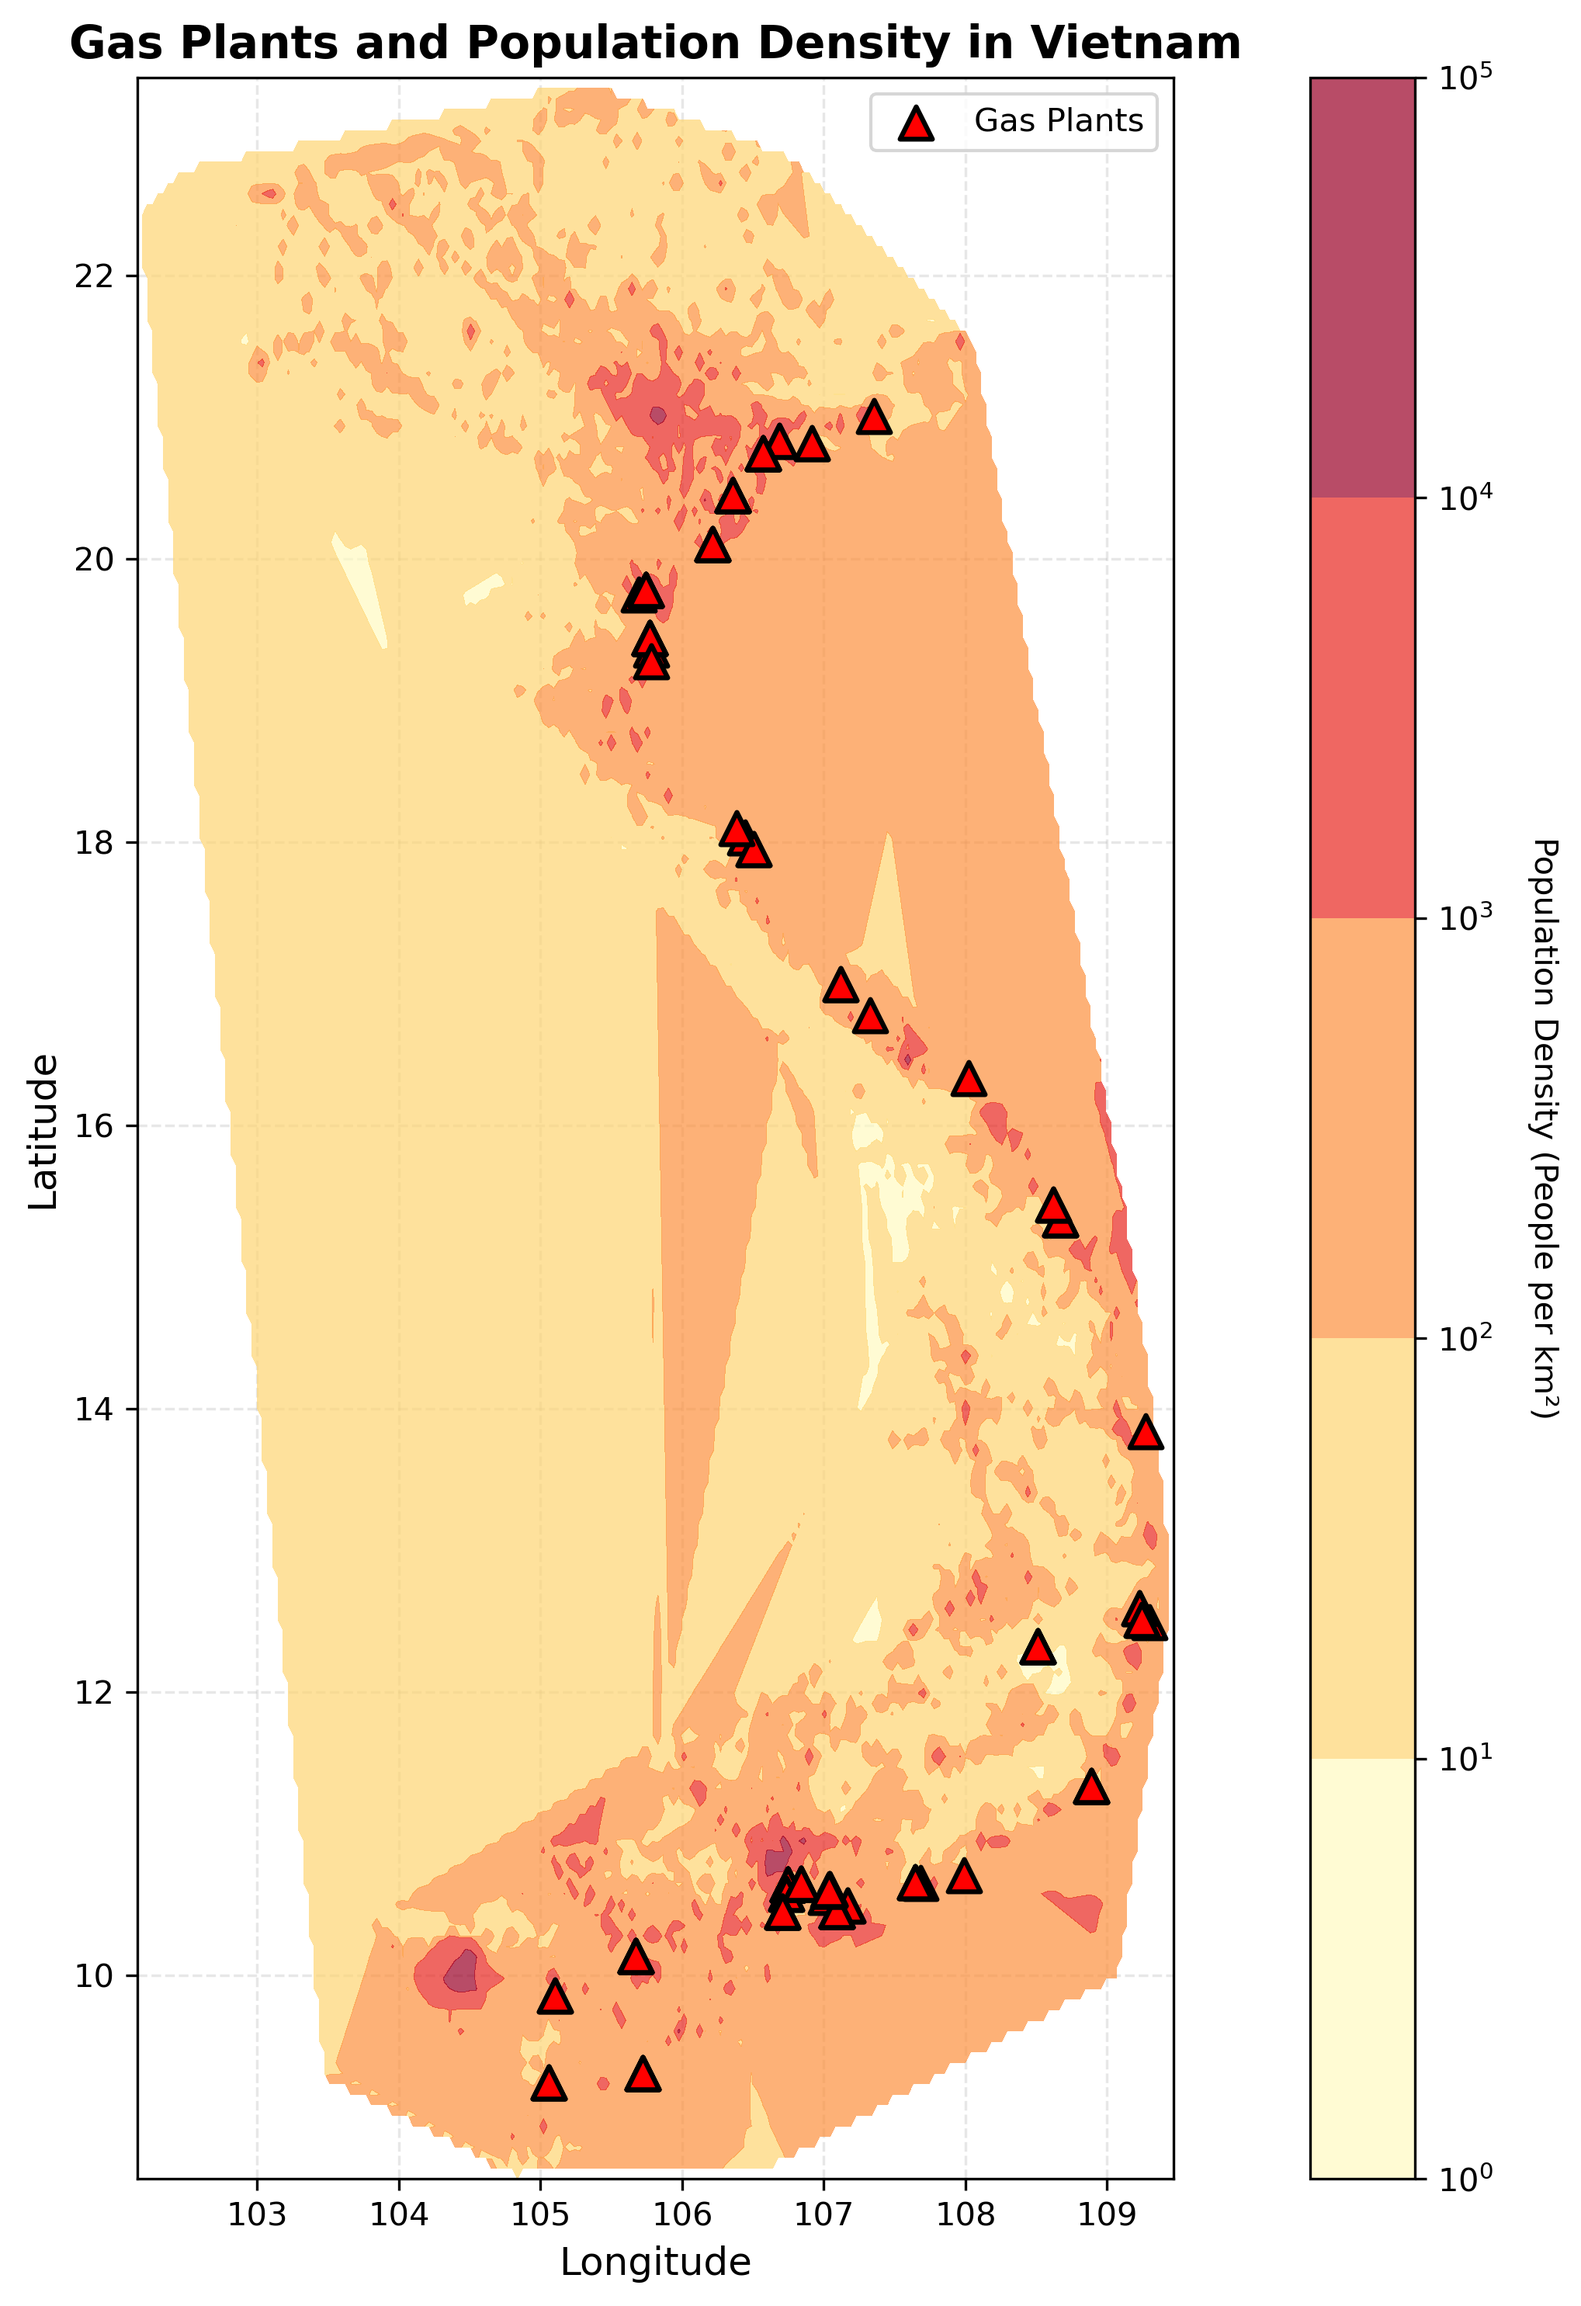
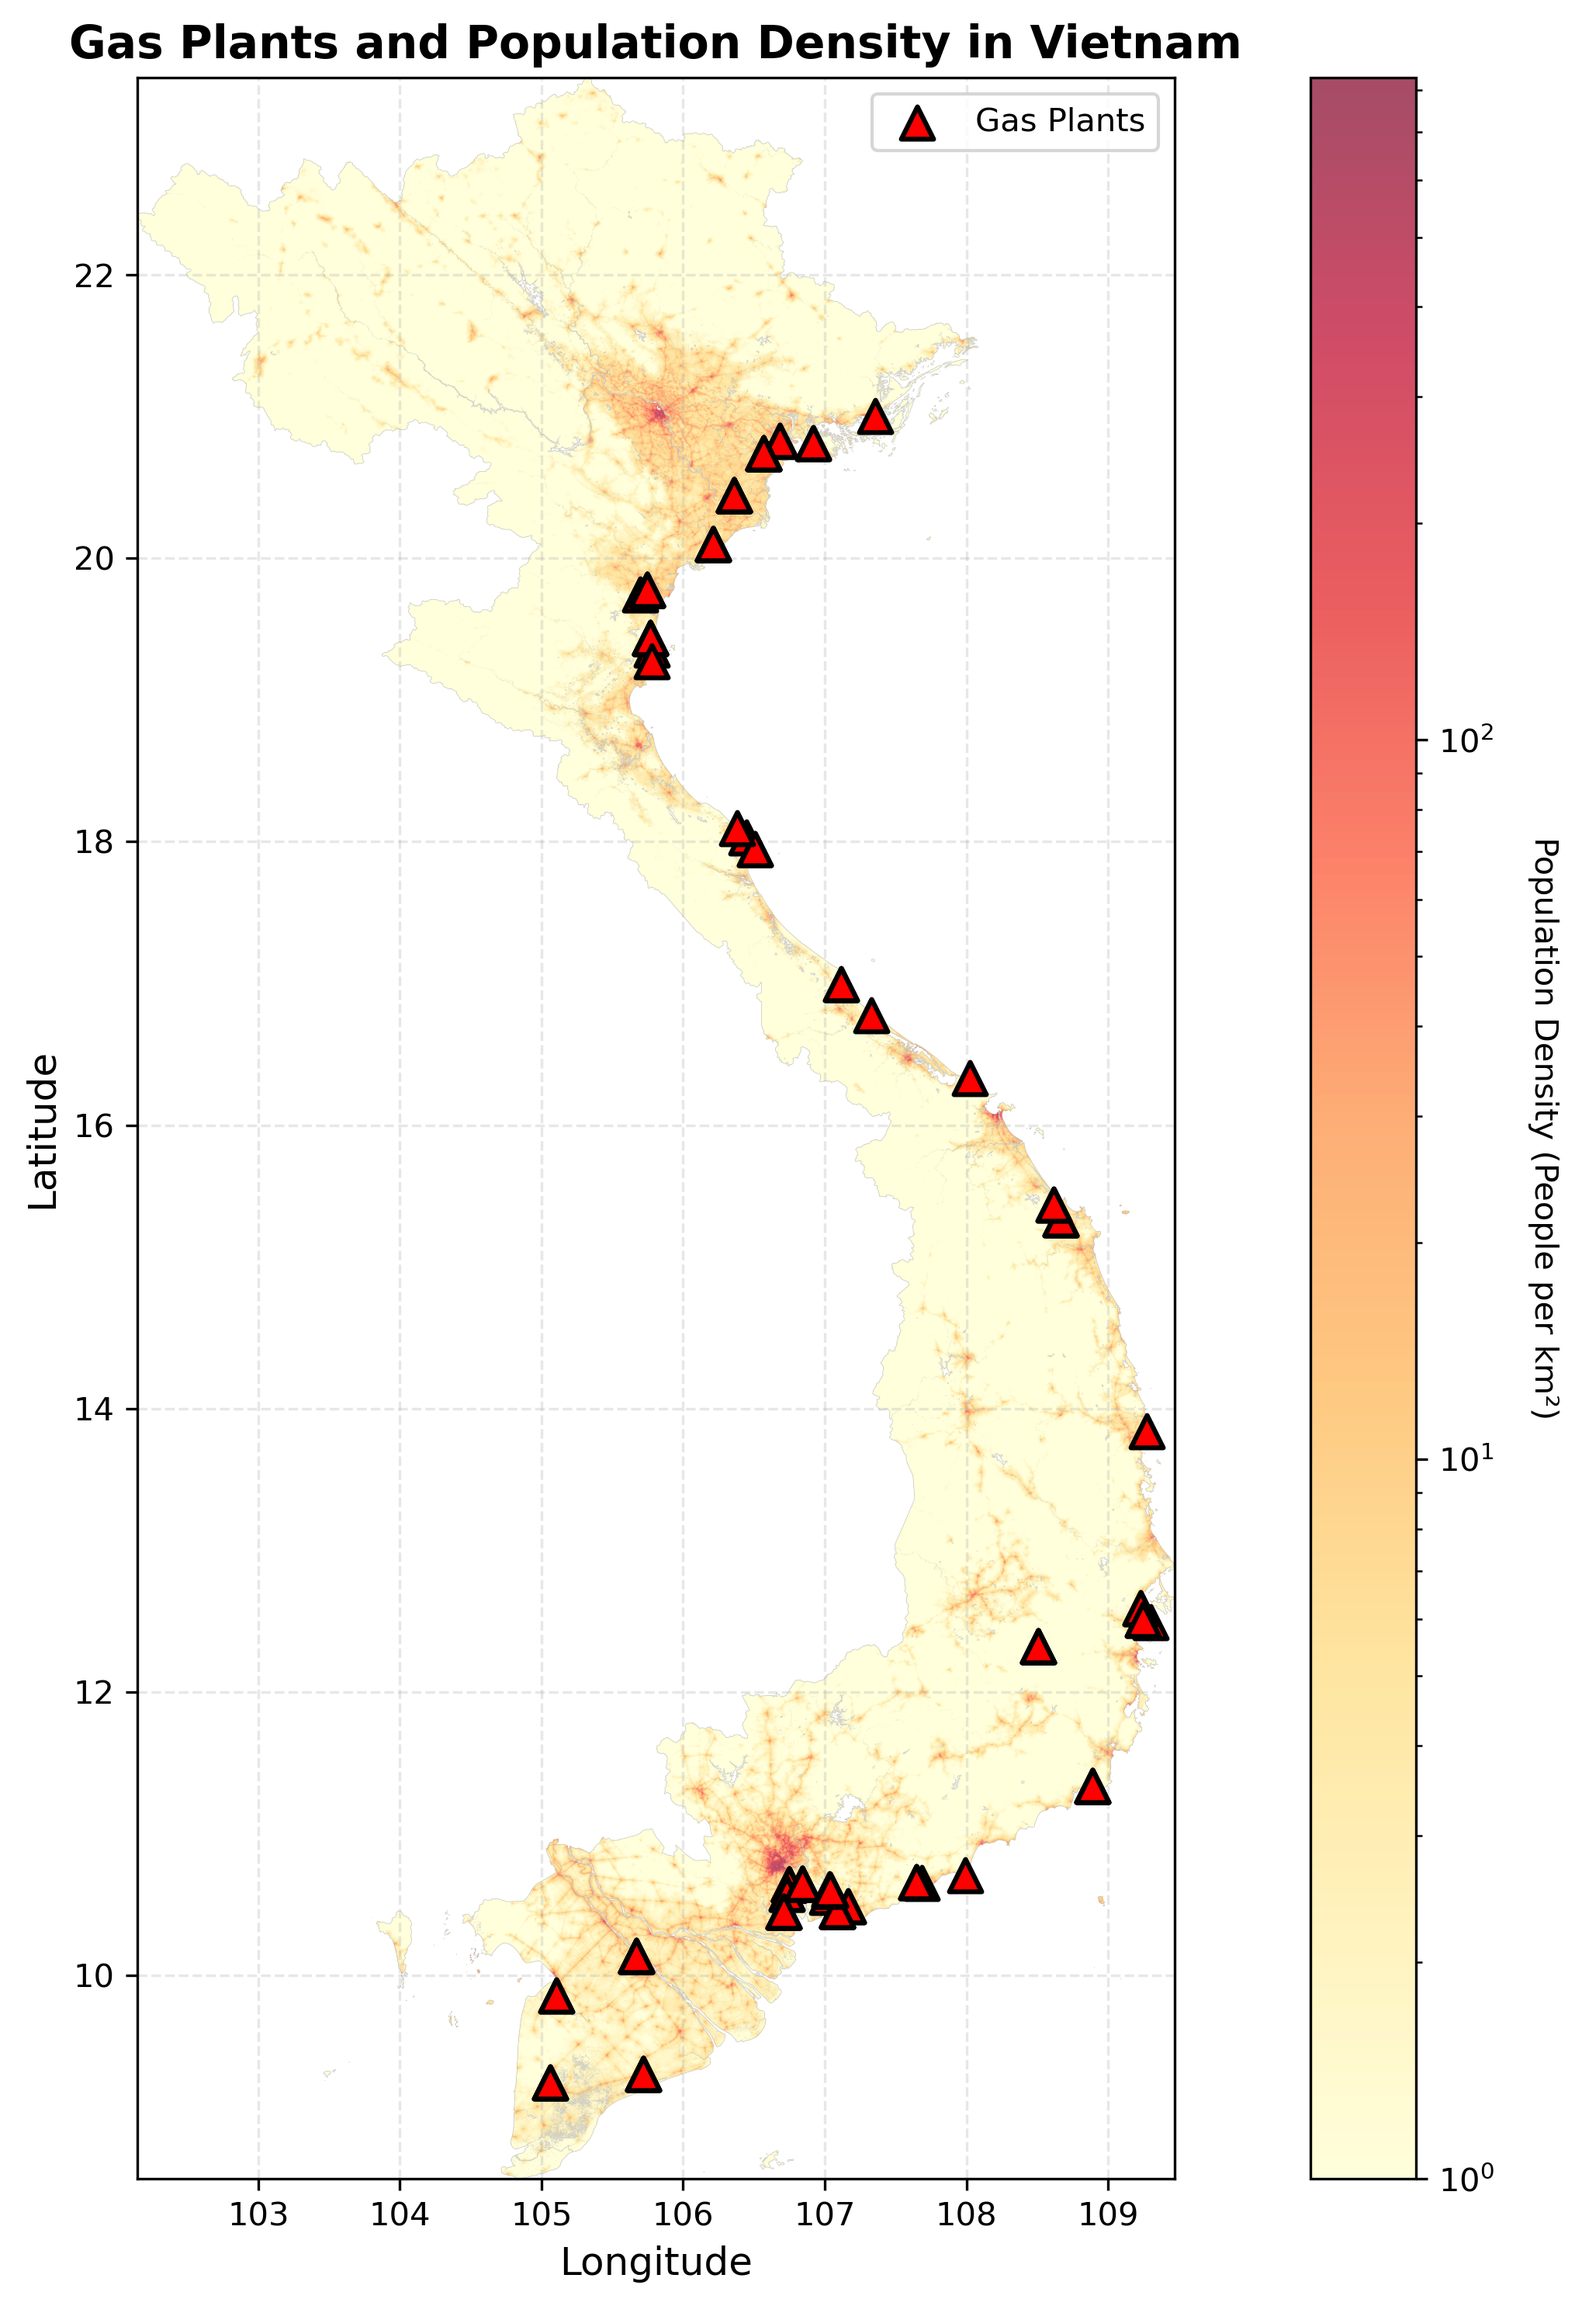
Code updated to use TIFF file instead of other file - produces a much better image.

diff --git a/src/plotting.py b/src/plotting.py
@@ -4,7 +4,14 @@ import pandas as pd
 import numpy as np
 import matplotlib.pyplot as plt
 from matplotlib.colors import LogNorm
-from scipy.interpolate import griddata
+
+try:
+    import rasterio
+    RASTERIO_AVAILABLE = True
+except ImportError:
+    RASTERIO_AVAILABLE = False
+    logger = logging.getLogger(__name__)
+    logger.warning("rasterio not available. TIFF file reading will not work.")
 
 from src.clean_data import clean_gas_plant_data
 from src.read_data import load_population_density_data, load_raw_gem_data 
@@ -14,88 +21,94 @@ from .config import load_config
 logger = logging.getLogger(__name__)
 
 
-def plot_plants_and_pop_density(df_plants: pd.DataFrame, df_pop: pd.DataFrame) -> None:
+def plot_plants_and_pop_density(df_plants: pd.DataFrame, df_pop: pd.DataFrame = None) -> None:
     """
-    Plot gas plants and population density data.
+    Plot gas plants and population density data from TIFF file.
     
     Args:
         df_plants: DataFrame with gas plant data containing 'lat' and 'lon' columns
-        df_pop: DataFrame with population density data containing 'x', 'y' (coordinates) 
-                and 'z' (People per km²) columns
+        df_pop: Optional DataFrame (deprecated - TIFF file is used instead)
     """
     try:
         logger.info("Starting plot generation: plants_and_pop_density")
-        logger.info(f"df_plants shape: {df_plants.shape}, df_pop shape: {df_pop.shape}")
+        logger.info(f"df_plants shape: {df_plants.shape}")
+        
+        if not RASTERIO_AVAILABLE:
+            raise ImportError("rasterio is required to read TIFF files. Install it with: pip install rasterio")
         
         cfg = load_config()
         figures_dir = Path(cfg["paths"]["figures"])
         figures_dir.mkdir(parents=True, exist_ok=True)
         
-        # Validate required columns
+        # Validate required columns for plants
         required_plant_cols = ["lat", "lon"]
-        required_pop_cols = ["X", "Y", "Z"]
-        
         missing_plant_cols = [col for col in required_plant_cols if col not in df_plants.columns]
-        missing_pop_cols = [col for col in required_pop_cols if col not in df_pop.columns]
         
         if missing_plant_cols:
             raise ValueError(f"Missing required columns in df_plants: {missing_plant_cols}")
-        if missing_pop_cols:
-            raise ValueError(f"Missing required columns in df_pop: {missing_pop_cols}")
         
         # Filter out any NaN values
         df_plants_clean = df_plants.dropna(subset=["lat", "lon"]).copy()
-        df_pop_clean = df_pop.dropna(subset=["X", "Y", "Z"]).copy()
         
-        logger.info(f"After cleaning - plants: {len(df_plants_clean)}, pop: {len(df_pop_clean)}")
+        logger.info(f"After cleaning - plants: {len(df_plants_clean)}")
         
         if len(df_plants_clean) == 0:
             raise ValueError("No valid gas plant coordinates found")
-        if len(df_pop_clean) == 0:
-            raise ValueError("No valid population density data found")
+        
+        # Load TIFF file
+        tiff_path = cfg["paths"]["population_tiff_file"]
+        if not tiff_path.exists():
+            raise FileNotFoundError(f"Population density TIFF file not found at: {tiff_path}")
+        
+        logger.info(f"Loading population density TIFF from: {tiff_path}")
+        
+        # Read TIFF file
+        with rasterio.open(tiff_path) as src:
+            # Read the raster data (first band)
+            pop_data = src.read(1)
+            
+            # Get geographic bounds
+            bounds = src.bounds
+            transform = src.transform
+            crs = src.crs
+            
+            logger.info(f"TIFF bounds: {bounds}")
+            logger.info(f"TIFF CRS: {crs}")
+            logger.info(f"TIFF shape: {pop_data.shape}")
+            logger.info(f"TIFF data range: {np.nanmin(pop_data)} to {np.nanmax(pop_data)}")
         
         # Create figure
         fig, ax = plt.subplots(figsize=(12, 10))
         
         # Prepare population density data for visualization
-        # Create a grid for interpolation
-        x_min, x_max = df_pop_clean["X"].min(), df_pop_clean["X"].max()
-        y_min, y_max = df_pop_clean["Y"].min(), df_pop_clean["Y"].max()
+        # Get extent in lat/lon coordinates
+        x_min, y_min = bounds.left, bounds.bottom
+        x_max, y_max = bounds.right, bounds.top
         
-        # Create grid for contour/heatmap
-        grid_resolution = 200
-        xi = np.linspace(x_min, x_max, grid_resolution)
-        yi = np.linspace(y_min, y_max, grid_resolution)
-        xi_grid, yi_grid = np.meshgrid(xi, yi)
+        # Mask no-data values (typically 0 or negative values)
+        pop_data_masked = np.ma.masked_where(pop_data <= 0, pop_data)
         
-        # Interpolate population density onto grid
-        z_grid = griddata(
-            (df_pop_clean["X"], df_pop_clean["Y"]),
-            df_pop_clean["Z"],
-            (xi_grid, yi_grid),
-            method="linear",
-            fill_value=0
-        )
-        
-        # Plot population density as filled contour/heatmap
-        # Use log scale for better visualization of density variations
-        z_positive = z_grid[z_grid > 0]
-        if len(z_positive) > 0:
-            vmin = max(z_positive.min(), 1)  # Avoid log(0)
-            vmax = z_positive.max()
-            im = ax.contourf(
-                xi_grid, yi_grid, z_grid,
-                levels=50,
+        # Plot population density as image
+        pop_positive = pop_data[pop_data > 0]
+        if len(pop_positive) > 0:
+            vmin = max(pop_positive.min(), 1)  # Avoid log(0)
+            vmax = pop_positive.max()
+            
+            im = ax.imshow(
+                pop_data_masked,
+                extent=[x_min, x_max, y_min, y_max],
                 cmap="YlOrRd",
                 norm=LogNorm(vmin=vmin, vmax=vmax),
-                alpha=0.7
+                alpha=0.7,
+                origin="upper",
+                interpolation="bilinear"
             )
             
             # Add colorbar
             cbar = plt.colorbar(im, ax=ax)
             cbar.set_label("Population Density (People per km²)", rotation=270, labelpad=20)
         else:
-            logger.warning("No positive population density values found for visualization")
+            logger.warning("No positive population density values found in TIFF file")
         
         # Plot gas plants as markers
         ax.scatter(
@@ -150,14 +163,9 @@ if __name__ == "__main__":
         df_plants = clean_gas_plant_data(df_raw)
         logger.info(f"Cleaned data: {len(df_plants)} gas plant units")
         
-        # Load population density data
-        logger.info("Loading population density data...")
-        df_pop = load_population_density_data()
-        logger.info(f"Loaded {len(df_pop)} rows of population density data")
-        
-        # Generate the plot
+        # Generate the plot (TIFF file is loaded inside the function)
         logger.info("Generating plot...")
-        plot_plants_and_pop_density(df_plants, df_pop)
+        plot_plants_and_pop_density(df_plants)
         
         logger.info("Plot generation completed successfully!")
         print(f"\n✓ Plot saved to: figures/plants_and_pop_density.png")

diff --git a/src/config.py b/src/config.py
@@ -31,7 +31,8 @@ def load_config(path: Path = PROJECT_ROOT / "config" / "config.yaml") -> dict:
         "gem_file": PROJECT_ROOT / cfg["data"]["gem_powerplants_file"],
         "cleaned_output": PROJECT_ROOT / cfg["output"]["cleaned_file"],
         "figures": PROJECT_ROOT / cfg["output"]["figures_dir"],
-        "population_density_file": PROJECT_ROOT / cfg["data"]["WP_population_density_file"]
+        "population_density_file": PROJECT_ROOT / cfg["data"]["WP_population_density_file"],
+        "population_tiff_file": PROJECT_ROOT / cfg["data"]["WP_population_tiff_file"]
     }
 
     # Ensure data directories exist (optional but safe)
